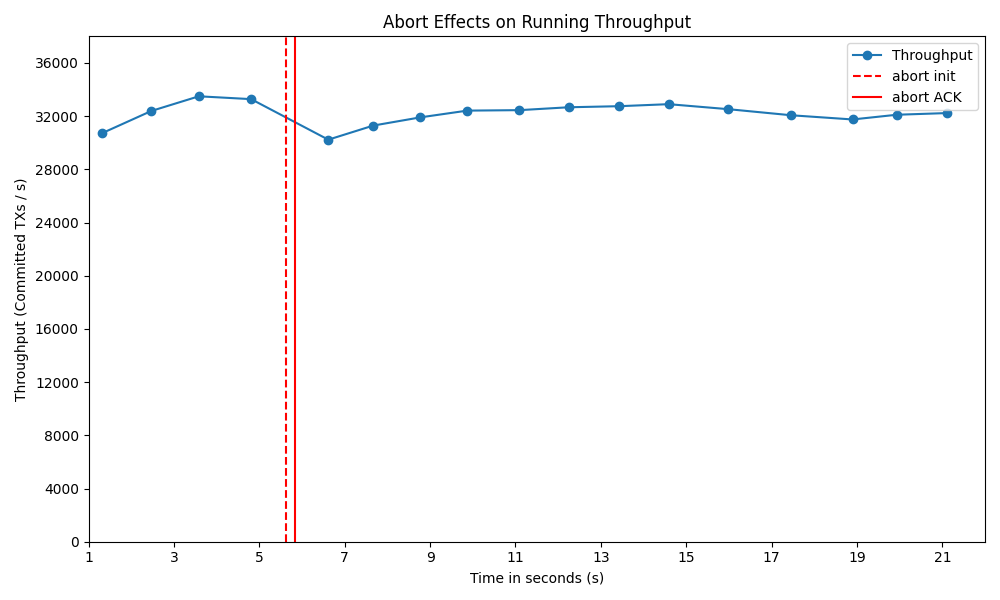
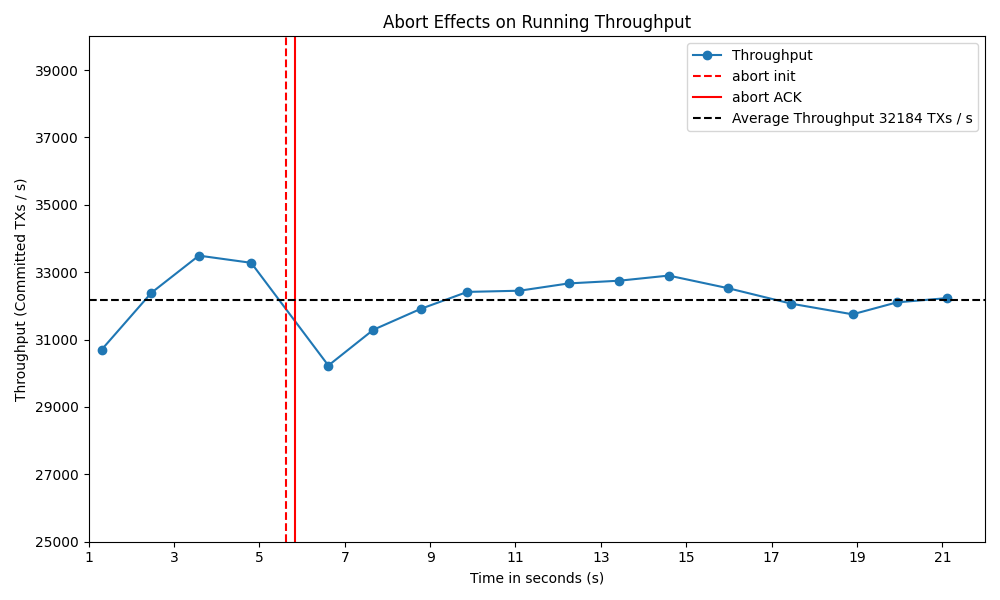
results

diff --git a/tpcc/benchmark-tpcc/stats.py b/tpcc/benchmark-tpcc/stats.py
@@ -30,6 +30,7 @@ def load_and_normalize_throughput(data):
         runtime = (info["timestampEnd"] - timestamp_start_global)/1000
         running_throughput = total_committed / runtime
         throughputs.append(running_throughput)
+        timestamps.append(info["timestampStart"])
         timestamps.append(info["timestampEnd"])
 
     # Convert to numpy
@@ -45,8 +46,8 @@ throughputs_np_recovery, timestamps_np_recovery = load_and_normalize_throughput(
 
 def batch_latencies(timestamps):
     latencies = []
-    for i in range(1, len(timestamps)):
-        latency = timestamps[i] - timestamps[i - 1]
+    for i in range(0, len(timestamps), 2):
+        latency = timestamps[i+1] - timestamps[i]
         latencies.append(latency)
 
     return latencies
@@ -56,31 +57,42 @@ abort_batch_latencies = batch_latencies(timestamps_np_abort)
 baseline_batch_latencies = batch_latencies(timestamps_np_baseline)
 
 # the acknowledgment latency
-def protocol_ack_latency(protocol_timestamps):
+def protocol_ack_latency(protocol_timestamps, start, end):
     # acknowledgment latency
     latencies = []
     for protocol_timestamp in protocol_timestamps:
+        if protocol_timestamp["timestampProcessed"] < start or protocol_timestamp["timestampAcknowledged"] > end:
+            # print(protocol_timestamp)
+            continue
         latency = protocol_timestamp["timestampAcknowledged"] - protocol_timestamp["timestampProcessed"]
         latencies.append(latency)
 
     return latencies
 
-abort_protocol_ack_latencies = protocol_ack_latency(data_abort["aborts"])
-crash_protocol_ack_latencies = protocol_ack_latency(data_recovery["crashes"])
-reconnection_protocol_ack_latencies = protocol_ack_latency(data_recovery["reconnections"])
+
+abort_exp_start = min(info["timestampStart"] for info in data_abort["throughputInfo"])
+abort_exp_end = max(info["timestampEnd"] for info in data_abort["throughputInfo"])
+abort_protocol_ack_latencies = protocol_ack_latency(data_abort["aborts"], abort_exp_start, abort_exp_end)
+
+crash_protocol_ack_latencies = protocol_ack_latency(data_recovery["crashes"], 0, np.infty)
+
+reconnection_protocol_ack_latencies = protocol_ack_latency(data_recovery["reconnections"], 0, np.infty)
 
 # LATENCY
-print(f"BASELINE: there are {len(baseline_batch_latencies)} batches, with an average latency of {np.mean(baseline_batch_latencies)} ms")
-print(f"ABORT: there are {len(abort_batch_latencies)} batches, with an average latency of {np.mean(abort_batch_latencies)} ms")
+print(f"BASELINE-LATENCY: there are {len(baseline_batch_latencies)} batches, with an average latency of {np.mean(baseline_batch_latencies)} ms")
+print(f"ABORT-LATENCY: there are {len(abort_batch_latencies)} batches, with an average latency of {np.mean(abort_batch_latencies)} ms")
+print()
 
 # THROUGHPUTS
-print(f"BASELINE: there are {len(throughputs_np_recovery)} batches, with an average throughput of {np.mean(throughputs_np_baseline)} ms")
-print(f"ABORT: there are {len(throughputs_np_abort)} batches, with an average throughput of {np.mean(throughputs_np_abort)} ms")
+print(f"BASELINE-THROUGHPUT: {len(throughputs_np_recovery)} batches, with an average throughput of {np.mean(throughputs_np_baseline)} ms")
+print(f"ABORT-THROUGHPUT: there are {len(throughputs_np_abort)} batches, with an average throughput of {np.mean(throughputs_np_abort)} ms")
+print(f"RECOVERY-THROUGHPUT: there are {len(throughputs_np_recovery)} batches, with an average throughput of {np.mean(throughputs_np_recovery)} ms")
+print()
 
 # ACKS
-print(f"ABORT: there are {len(abort_protocol_ack_latencies)} aborts initiated and acknowledged "
+print(f"ABORT-ACK-RTT: there are {len(abort_protocol_ack_latencies)} aborts initiated and acknowledged "
       f"on average taking {np.mean(abort_protocol_ack_latencies)} ms")
-print(f"RECOVERY: there are {len(crash_protocol_ack_latencies)} crashes initiated and acknowledged "
+print(f"CRASH-ACK-RTT: there are {len(crash_protocol_ack_latencies)} crashes initiated and acknowledged "
       f"on average taking {np.mean(crash_protocol_ack_latencies)} ms")
-print(f"RECOVERY: there are {len(reconnection_protocol_ack_latencies)} reconnections initiated and acknowledged "
+print(f"RECON-ACK-RTT: there are {len(reconnection_protocol_ack_latencies)} reconnections initiated and acknowledged "
       f"on average taking {np.mean(reconnection_protocol_ack_latencies)} ms")

diff --git a/flightScheduler/flightScheduler-benchmark/stats.py b/flightScheduler/flightScheduler-benchmark/stats.py
@@ -30,6 +30,7 @@ def load_and_normalize_throughput(data):
         runtime = (info["timestampEnd"] - timestamp_start_global)/1000
         running_throughput = total_committed / runtime
         throughputs.append(running_throughput)
+        timestamps.append(info["timestampStart"])
         timestamps.append(info["timestampEnd"])
 
     # Convert to numpy
@@ -45,8 +46,8 @@ throughputs_np_recovery, timestamps_np_recovery = load_and_normalize_throughput(
 
 def batch_latencies(timestamps):
     latencies = []
-    for i in range(1, len(timestamps)):
-        latency = timestamps[i] - timestamps[i - 1]
+    for i in range(0, len(timestamps), 2):
+        latency = timestamps[i+1] - timestamps[i]
         latencies.append(latency)
 
     return latencies
@@ -56,26 +57,36 @@ abort_batch_latencies = batch_latencies(timestamps_np_abort)
 baseline_batch_latencies = batch_latencies(timestamps_np_baseline)
 
 # the acknowledgment latency
-def protocol_ack_latency(protocol_timestamps):
+def protocol_ack_latency(protocol_timestamps, start, end):
     # acknowledgment latency
     latencies = []
     for protocol_timestamp in protocol_timestamps:
+        if protocol_timestamp["timestampProcessed"] < start or protocol_timestamp["timestampAcknowledged"] > end:
+            # print(protocol_timestamp)
+            continue
         latency = protocol_timestamp["timestampAcknowledged"] - protocol_timestamp["timestampProcessed"]
         latencies.append(latency)
 
     return latencies
 
-abort_protocol_ack_latencies = protocol_ack_latency(data_abort["aborts"])
-crash_protocol_ack_latencies = protocol_ack_latency(data_recovery["crashes"])
-reconnection_protocol_ack_latencies = protocol_ack_latency(data_recovery["reconnections"])
+
+abort_exp_start = min(info["timestampStart"] for info in data_abort["throughputInfo"])
+abort_exp_end = max(info["timestampEnd"] for info in data_abort["throughputInfo"])
+abort_protocol_ack_latencies = protocol_ack_latency(data_abort["aborts"], abort_exp_start, abort_exp_end)
+
+crash_protocol_ack_latencies = protocol_ack_latency(data_recovery["crashes"], 0, np.infty)
+
+reconnection_protocol_ack_latencies = protocol_ack_latency(data_recovery["reconnections"], 0, np.infty)
 
 # LATENCY
 print(f"BASELINE: there are {len(baseline_batch_latencies)} batches, with an average latency of {np.mean(baseline_batch_latencies)} ms")
 print(f"ABORT: there are {len(abort_batch_latencies)} batches, with an average latency of {np.mean(abort_batch_latencies)} ms")
+print()
 
 # THROUGHPUTS
 print(f"BASELINE: there are {len(throughputs_np_recovery)} batches, with an average throughput of {np.mean(throughputs_np_baseline)} ms")
 print(f"ABORT: there are {len(throughputs_np_abort)} batches, with an average throughput of {np.mean(throughputs_np_abort)} ms")
+print()
 
 # ACKS
 print(f"ABORT: there are {len(abort_protocol_ack_latencies)} aborts initiated and acknowledged "

diff --git a/flightScheduler/flightScheduler-benchmark/graphs_throughput.py b/flightScheduler/flightScheduler-benchmark/graphs_throughput.py
@@ -5,7 +5,9 @@ import numpy as np
 
 baseline_result = "result_baseline"
 abort_result = "result_1_abort"
+many_abort_result = "result_many_abort"
 vms_recovery_result = "result_1_booking_recovery"
+many_vms_recovery_result = "result_many_booking_recovery"
 
 experiment = abort_result
 # experiment = vms_recovery_result
@@ -70,11 +72,12 @@ for reconnection in data_experiment["reconnections"]:
     plt.axvline(x=ts_p/1000, color="g", linestyle="--", label=f"{vms} attempts reconnection")
     plt.axvline(x=ts_a/1000, color="g", linestyle="-", label=f"{vms} reconnection ACK")
 
+avg_throughput = np.mean(throughputs_np)
+plt.axhline(y=avg_throughput, color="k", linestyle="--", label=f"Average Throughput {('%.0f'%avg_throughput)} TXs / s")
+
 if experiment == baseline_result:
     #plot constant line
     plt.title("Baseline Running Throughput")
-    avg_throughput = np.mean(throughputs_np)
-    plt.axhline(y=avg_throughput, color="k", linestyle="--", label=f"Average Throughput ~{('%.0f'%avg_throughput)} TXs / s")
 elif experiment == abort_result:
     plt.title("Abort Effects on Running Throughput")
 else:
@@ -83,8 +86,12 @@ else:
 plt.xlabel("Time in seconds (s)")
 plt.ylabel("Throughput (Committed TXs / s)")
 
-plt.ylim(0, 38000)
-plt.yticks(range(0, 38001, 4000))
+# plt.ylim(30000, 40000)
+# plt.yticks(range(30000, 40001, 2000))
+plt.ylim(25000, 40000)
+plt.yticks(range(25000, 40001, 2000))
+# plt.ylim(10000, 40000)
+# plt.yticks(range(10000, 40001, 2000))
 
 xmin = max(1, int(np.floor(timestamps_np.min()/1000)))
 xmax = int(np.ceil(timestamps_np.max()/1000))

diff --git a/tpcc/benchmark-tpcc/graphs_throughput.py b/tpcc/benchmark-tpcc/graphs_throughput.py
@@ -70,11 +70,12 @@ for reconnection in data_experiment["reconnections"]:
     plt.axvline(x=ts_p/1000, color="g", linestyle="--", label=f"{vms} attempts reconnection")
     plt.axvline(x=ts_a/1000, color="g", linestyle="-", label=f"{vms} reconnection ACK")
 
+avg_throughput = np.mean(throughputs_np)
+plt.axhline(y=avg_throughput, color="k", linestyle="--", label=f"Average Throughput {('%.0f'%avg_throughput)} TXs / s")
+
 if experiment == baseline_result:
     #plot constant line
     plt.title("Baseline Running Throughput")
-    avg_throughput = np.mean(throughputs_np)
-    plt.axhline(y=avg_throughput, color="k", linestyle="--", label=f"Average Throughput ~{('%.0f'%avg_throughput)} TXs / s")
 elif experiment == abort_result:
     plt.title("Abort Effects on Running Throughput")
 else:
@@ -83,8 +84,10 @@ else:
 plt.xlabel("Time in seconds (s)")
 plt.ylabel("Throughput (Committed TXs / s)")
 
-plt.ylim(0, 25000)
-plt.yticks(range(0, 25001, 3000))
+# plt.ylim(12000, 18000)
+# plt.yticks(range(12000, 18001, 1000))
+plt.ylim(5000, 18000)
+plt.yticks(range(5000, 18001, 1000))
 
 xmin = max(1, int(np.floor(timestamps_np.min()/1000)))
 xmax = int(np.ceil(timestamps_np.max()/1000))
